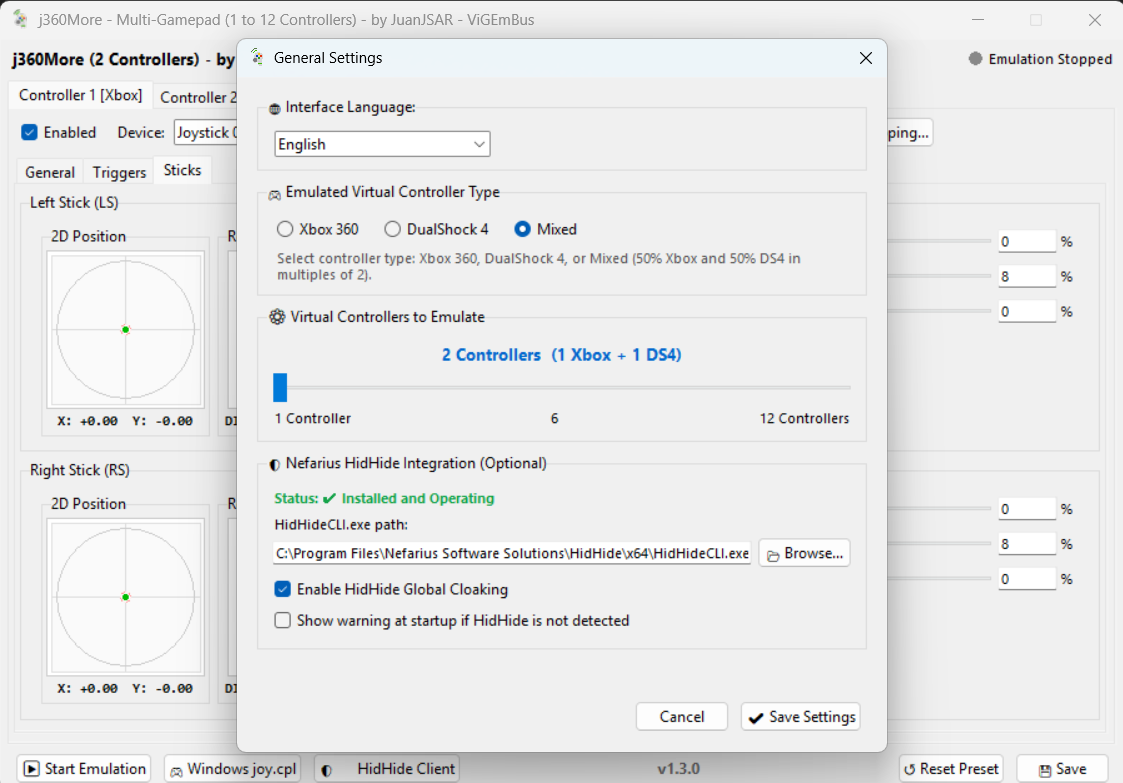
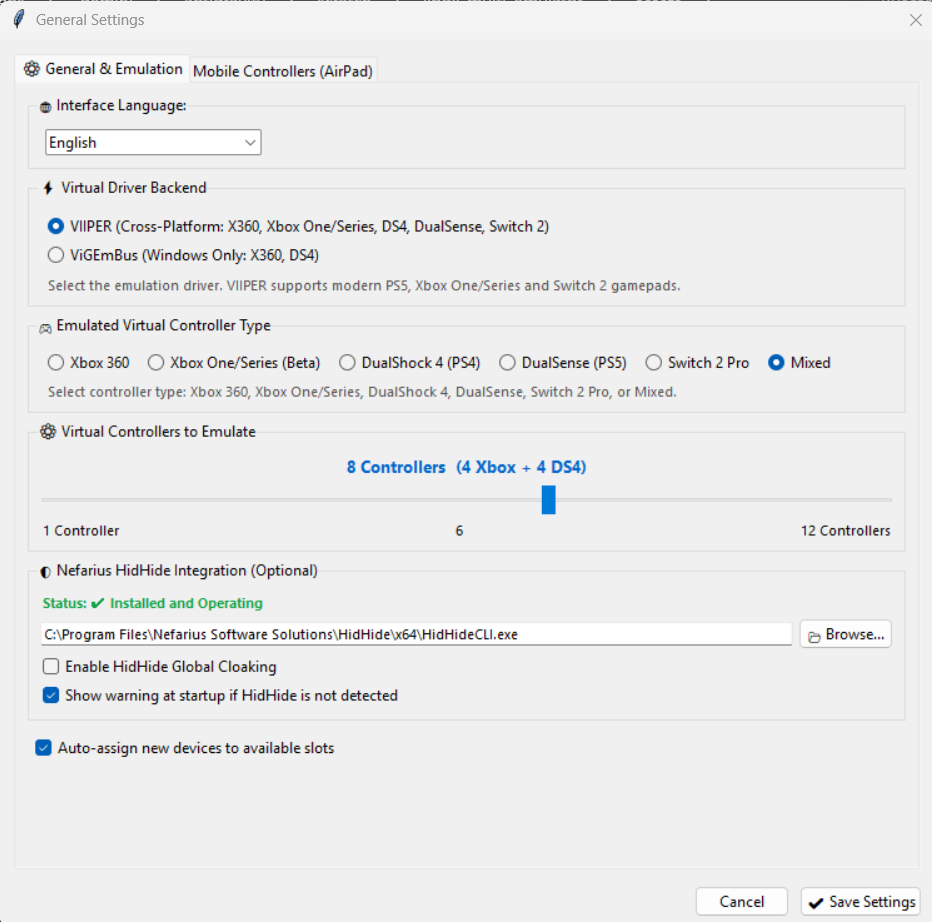
docs: add AirPad server, mobile touch gamepad, and layout customization screenshots to website and README

diff --git a/docs/script.js b/docs/script.js
@@ -43,6 +43,8 @@ const translations = {
     f7_desc: "Conecta 2 o más teclados físicos (USB, Bluetooth o laptop) y asígnalos a mandos virtuales de Xbox separados. Desarrollado sobre Windows Raw Input para garantizar cero interferencias cruzadas (Zero Cross-Talk).",
     f8_title: "Lanzador 'Juegos' (+4 Mandos)",
     f8_desc: "Pestaña dedicada para lanzar juegos multijugador con inyección automática de variables de entorno (FNA_GAMEPAD_NUM_GAMEPADS, etc.) escaladas en tiempo real para soportar hasta 12 mandos.",
+    f9_title: "AirPad: Mando Móvil Táctil",
+    f9_desc: "Transforma cualquier smartphone en un mando virtual con conexión instantánea por código QR, respuesta inmediata por WebSockets, modo HTTPS para mantener la pantalla siempre encendida y personalización total de botones y joysticks.",
     dual_tag: "Soporte Multi-Consola",
     dual_title: "Emulación de Xbox 360, Xbox One, PS4, PS5 y Switch 2 Pro",
     dual_subtitle: "j360More te permite elegir qué tipo de mando crear en tu sistema mediante los drivers VIIPER y ViGEmBus: Xbox 360, Xbox One (GIP), DualShock 4, DualSense (PS5), Nintendo Switch 2 Pro o modo Mixto simultáneo.",
@@ -143,6 +145,8 @@ const translations = {
     faq_a3: "¡Sí! Gracias a la integración nativa con Windows Raw Input, j360More detecta individualmente cada teclado físico conectado (USB, Bluetooth o integrado de laptop). Puedes conectar 2, 3 o más teclados y asignarlos a mandos separados (Mando 1, Mando 2, etc.) sin interferencia cruzada (Zero Cross-Talk): presionar teclas en el Teclado 1 jamás afectará los controles del Teclado 2.",
     faq_q4: "¿Cómo soluciono sticks con deriva (drift)?",
     faq_a4: "j360More incluye calibración analógica avanzada. En la pestaña de calibración puedes aumentar la 'Zona Muerta (Deadzone)' en un porcentaje para que los movimientos no deseados del stick sean completamente ignorados.",
+    faq_q5: "¿Cómo funciona AirPad para usar mi celular como mando?",
+    faq_a5: "Solo activa el servidor en la pestaña 'AirPad' de j360More y escanea el código QR desde la cámara de tu smartphone conectado a la misma red WiFi. No necesitas instalar ninguna app; el mando se ejecuta directamente en el navegador. Puedes activar el modo HTTPS para mantener la pantalla siempre encendida (Wake Lock) y personalizar libremente la ubicación de los botones y palancas.",
     cta_title: "¡Lleva el Multijugador en PC al Siguiente Nivel!",
     cta_desc: "Descarga la última versión de j360More y disfruta de partidas locales con amigos sin complicaciones.",
     cta_btn: "Descargar Última Versión en GitHub",
@@ -162,6 +166,15 @@ const translations = {
     s3_badge: "Configuración",
     s3_title: "Opciones de Emulación y Drivers",
     s3_desc: "Selección del motor (VIIPER / ViGEmBus), tipo de mando (Xbox 360, DualShock 4, DualSense, Switch 2 Pro o Mixto), cantidad de mandos e idioma.",
+    s4_badge: "AirPad Server",
+    s4_title: "Servidor AirPad & Conexión QR",
+    s4_desc: "Convierte cualquier smartphone o tableta en mando virtual. Incluye código QR dinámico, detección de IPs de red local, lista de mandos activos y selector HTTPS/SSL para activar el Wake Lock de pantalla.",
+    s5_badge: "AirPad Móvil",
+    s5_title: "Mando Virtual Táctil Completo",
+    s5_desc: "Mando táctil de ultra baja latencia con respuesta háptica (vibración), sticks analógicos duales, cruceta y gatillos directamente en el navegador de tu smartphone sin instalar aplicaciones.",
+    s6_badge: "Personalización",
+    s6_title: "Personalización Libre de Posiciones",
+    s6_desc: "Modo de edición en pantalla que permite arrastrar, reubicar y redimensionar cada botón y joystick libremente para adaptarse al tamaño de tu pantalla y a tu forma de agarrar el móvil.",
     screenshot_zoom: "Haz clic para ampliar en alta resolución",
     footer_desc: "Emulador de mandos virtuales para Windows y Linux (Beta). Diseñado y desarrollado por JuanJSAR para ofrecer la máxima velocidad, estabilidad y flexibilidad en entornos multijugador de 1 a 12 participantes.",
     footer_drivers_title: "Controladores",
@@ -209,6 +222,8 @@ const translations = {
     f7_desc: "Connect 2 or more physical keyboards (USB, wireless, or laptop) and map them to separate virtual Xbox controllers. Powered by Windows Raw Input with zero player cross-talk: typing on Keyboard 1 will never trigger actions on Keyboard 2.",
     f8_title: "Dedicated 'Games' Launcher (+4 Gamepads)",
     f8_desc: "Integrated launcher for local multiplayer titles with automatic environment variable scaling (FNA_GAMEPAD_NUM_GAMEPADS, etc.) dynamically matched to your active controller setup up to 12 gamepads.",
+    f9_title: "AirPad: Mobile Touch Gamepad",
+    f9_desc: "Transform any smartphone into a virtual gamepad with instant QR code pairing, low-latency WebSockets, HTTPS mode to keep the screen awake, and full on-screen button repositioning.",
     dual_tag: "Multi-Console Support",
     dual_title: "Xbox 360, Xbox One, PS4, PS5 & Switch 2 Pro Emulation",
     dual_subtitle: "j360More allows you to choose what type of controller to spawn on your system using VIIPER and ViGEmBus: Xbox 360, Xbox One (GIP), DualShock 4, DualSense (PS5), Nintendo Switch 2 Pro, or simultaneous Mixed mode.",
@@ -309,6 +324,8 @@ const translations = {
     faq_a3: "Yes! Thanks to low-level Windows Raw Input API integration, j360More individually tracks each connected physical keyboard (USB, Bluetooth, or internal laptop keyboard). You can connect 2, 3, or more keyboards and assign each to separate virtual slots (Controller 1, Controller 2, etc.) with zero cross-talk: pressing keys on Keyboard 1 will never affect Keyboard 2.",
     faq_q4: "How do I fix joystick drift?",
     faq_a4: "j360More features analog calibration. Open the calibration window and increase the 'Deadzone' percentage so unintended micro-movements are completely ignored.",
+    faq_q5: "How does AirPad work to use my mobile phone as a controller?",
+    faq_a5: "Just enable the server in j360More's 'AirPad' tab and scan the QR code using your phone's camera while connected to the same Wi-Fi network. No app installation needed; the controller runs directly in your browser. You can enable HTTPS mode to keep the screen awake (Screen Wake Lock) and freely customize on-screen button positions and sizes.",
     cta_title: "Elevate Your PC Local Multiplayer Gaming!",
     cta_desc: "Download the latest release of j360More and enjoy seamless local gaming with friends.",
     cta_btn: "Download Latest Release on GitHub",
@@ -328,6 +345,15 @@ const translations = {
     s3_badge: "Settings",
     s3_title: "Emulation Options & Drivers",
     s3_desc: "Selection of driver engine (VIIPER / ViGEmBus), controller type (Xbox 360, DualShock 4, DualSense, Switch 2 Pro, or Mixed), controller count, and language.",
+    s4_badge: "AirPad Server",
+    s4_title: "AirPad Server & QR Connection",
+    s4_desc: "Turn any smartphone or tablet into a virtual gamepad. Features dynamic QR code generation, local network IP discovery, active client list, and HTTPS/SSL mode to enable Screen Wake Lock.",
+    s5_badge: "AirPad Mobile",
+    s5_title: "Full Virtual Touch Gamepad",
+    s5_desc: "Ultra-low-latency touch controller with haptic feedback, dual analog sticks, D-pad, and triggers directly in your mobile browser without installing any apps.",
+    s6_badge: "Customization",
+    s6_title: "Free Touch Layout Customization",
+    s6_desc: "Interactive layout editor allowing you to freely drag, reposition, and resize every button, D-pad, and joystick to match your hand ergonomics and screen size.",
     screenshot_zoom: "Click to view full resolution",
     footer_desc: "Virtual controller emulator for Windows & Linux (Beta). Designed and developed by JuanJSAR to provide unmatched speed, stability, and versatility for 1 to 12 local players.",
     footer_drivers_title: "Drivers",

diff --git a/docs/index.html b/docs/index.html
@@ -290,6 +290,15 @@
           Pestaña dedicada para lanzar juegos multijugador con inyección automática de variables de entorno (FNA_GAMEPAD_NUM_GAMEPADS, etc.) escaladas en tiempo real para soportar hasta 12 mandos.
         </p>
       </div>
+
+      <!-- Feature 9 -->
+      <div class="feature-card">
+        <div class="feature-icon">📱</div>
+        <h3 data-i18n="f9_title">AirPad: Mando Móvil Táctil</h3>
+        <p data-i18n="f9_desc">
+          Transforma cualquier smartphone en un mando virtual con conexión instantánea por código QR, respuesta inmediata por WebSockets, modo HTTPS para mantener la pantalla siempre encendida y personalización total de botones y joysticks.
+        </p>
+      </div>
     </div>
   </section>
 
@@ -539,6 +548,99 @@
           <h3 class="screenshot-title" data-i18n="s3_title">Opciones de Emulación y Drivers</h3>
           <p class="screenshot-desc" data-i18n="s3_desc">
             Selección del motor (VIIPER / ViGEmBus), tipo de mando (Xbox 360, DualShock 4, DualSense, Switch 2 Pro o Mixto), cantidad de mandos e idioma.
+          </p>
+        </div>
+      </div>
+
+      <!-- Screenshot 5: AirPad Server & QR Code -->
+      <div class="screenshot-card">
+        <div class="window-mockup">
+          <div class="window-header">
+            <div class="window-dots">
+              <span class="window-dot red"></span>
+              <span class="window-dot yellow"></span>
+              <span class="window-dot green"></span>
+            </div>
+            <span class="window-title">j360More - Servidor AirPad (Gamepad Móvil)</span>
+          </div>
+          <div class="screenshot-img-wrapper">
+            <img src="assets/screenshot_airpad.png" alt="j360More - Servidor AirPad con Código QR y Soporte HTTPS SSL" class="screenshot-zoomable">
+            <div class="screenshot-overlay">
+              <svg width="14" height="14" viewBox="0 0 24 24" fill="none" stroke="currentColor" stroke-width="2">
+                <circle cx="11" cy="11" r="8"/>
+                <line x1="21" y1="21" x2="16.65" y2="16.65"/>
+              </svg>
+              <span data-i18n="screenshot_zoom">Haz clic para ampliar</span>
+            </div>
+          </div>
+        </div>
+        <div class="screenshot-info">
+          <span class="screenshot-badge" data-i18n="s4_badge">AirPad Server</span>
+          <h3 class="screenshot-title" data-i18n="s4_title">Servidor AirPad & Conexión QR</h3>
+          <p class="screenshot-desc" data-i18n="s4_desc">
+            Convierte cualquier smartphone o tableta en mando virtual. Incluye código QR dinámico, detección de IPs de red local, lista de mandos activos y selector HTTPS/SSL para activar el Wake Lock de pantalla.
+          </p>
+        </div>
+      </div>
+
+      <!-- Screenshot 6: AirPad Mobile Gamepad -->
+      <div class="screenshot-card">
+        <div class="window-mockup">
+          <div class="window-header">
+            <div class="window-dots">
+              <span class="window-dot red"></span>
+              <span class="window-dot yellow"></span>
+              <span class="window-dot green"></span>
+            </div>
+            <span class="window-title">AirPad Web - Mando Táctil Virtual (Android / iOS)</span>
+          </div>
+          <div class="screenshot-img-wrapper">
+            <img src="assets/screenshot_android1.png" alt="AirPad Móvil - Mando Táctil Virtual en Navegador" class="screenshot-zoomable">
+            <div class="screenshot-overlay">
+              <svg width="14" height="14" viewBox="0 0 24 24" fill="none" stroke="currentColor" stroke-width="2">
+                <circle cx="11" cy="11" r="8"/>
+                <line x1="21" y1="21" x2="16.65" y2="16.65"/>
+              </svg>
+              <span data-i18n="screenshot_zoom">Haz clic para ampliar</span>
+            </div>
+          </div>
+        </div>
+        <div class="screenshot-info">
+          <span class="screenshot-badge" data-i18n="s5_badge">AirPad Móvil</span>
+          <h3 class="screenshot-title" data-i18n="s5_title">Mando Virtual Táctil Completo</h3>
+          <p class="screenshot-desc" data-i18n="s5_desc">
+            Mando táctil de ultra baja latencia con respuesta háptica (vibración), sticks analógicos duales, cruceta y gatillos directamente en el navegador de tu smartphone sin instalar aplicaciones.
+          </p>
+        </div>
+      </div>
+
+      <!-- Screenshot 7: AirPad Layout Customization -->
+      <div class="screenshot-card">
+        <div class="window-mockup">
+          <div class="window-header">
+            <div class="window-dots">
+              <span class="window-dot red"></span>
+              <span class="window-dot yellow"></span>
+              <span class="window-dot green"></span>
+            </div>
+            <span class="window-title">AirPad Web - Personalización Libre de Posiciones</span>
+          </div>
+          <div class="screenshot-img-wrapper">
+            <img src="assets/screenshot_android2.png" alt="AirPad Móvil - Personalización Libre de Posiciones y Tamaño" class="screenshot-zoomable">
+            <div class="screenshot-overlay">
+              <svg width="14" height="14" viewBox="0 0 24 24" fill="none" stroke="currentColor" stroke-width="2">
+                <circle cx="11" cy="11" r="8"/>
+                <line x1="21" y1="21" x2="16.65" y2="16.65"/>
+              </svg>
+              <span data-i18n="screenshot_zoom">Haz clic para ampliar</span>
+            </div>
+          </div>
+        </div>
+        <div class="screenshot-info">
+          <span class="screenshot-badge" data-i18n="s6_badge">Personalización</span>
+          <h3 class="screenshot-title" data-i18n="s6_title">Personalización Libre de Posiciones</h3>
+          <p class="screenshot-desc" data-i18n="s6_desc">
+            Modo de edición en pantalla que permite arrastrar, reubicar y redimensionar cada botón y joystick libremente para adaptarse al tamaño de tu pantalla y a tu forma de agarrar el móvil.
           </p>
         </div>
       </div>
@@ -818,6 +920,13 @@
         <div class="faq-question" data-i18n="faq_q4">¿Cómo soluciono sticks con deriva (drift)?</div>
         <div class="faq-answer" data-i18n="faq_a4">
           j360More incluye calibración analógica avanzada. En la pestaña de calibración puedes aumentar la "Zona Muerta (Deadzone)" en un porcentaje para que los movimientos no deseados del stick sean completamente ignorados.
+        </div>
+      </div>
+
+      <div class="faq-item">
+        <div class="faq-question" data-i18n="faq_q5">¿Cómo funciona AirPad para usar mi celular como mando?</div>
+        <div class="faq-answer" data-i18n="faq_a5">
+          Solo activa el servidor en la pestaña "AirPad" de j360More y escanea el código QR desde la cámara de tu smartphone conectado a la misma red WiFi. No necesitas instalar ninguna app; el mando se ejecuta directamente en el navegador. Puedes activar el modo HTTPS para mantener la pantalla siempre encendida (Wake Lock) y personalizar libremente la ubicación de los botones y palancas.
         </div>
       </div>
     </div>

diff --git a/README_es.md b/README_es.md
@@ -22,6 +22,8 @@ Permite asociar periféricos físicos reales (mandos USB o Bluetooth DirectInput
 | [![Mapeo Xbox 360](assets/screenshot_main.png)](assets/screenshot_main.png) | [![Mapeo DualShock 4](assets/screenshot_main2.png)](assets/screenshot_main2.png) |
 | **Calibración de Sticks Analógicos** | **Configuración y Selección de Drivers** |
 | [![Calibración de Sticks](assets/screenshot_sticks.png)](assets/screenshot_sticks.png) | [![Configuración](assets/screenshot_settings.png)](assets/screenshot_settings.png) |
+| **Servidor AirPad (QR y HTTPS/SSL)** | **Mando Táctil Móvil y Personalización de Posiciones** |
+| [![Servidor AirPad](assets/screenshot_airpad.png)](assets/screenshot_airpad.png) | [![Mando Táctil AirPad](assets/screenshot_android1.png)](assets/screenshot_android1.png)<br>[![Personalización de Posiciones](assets/screenshot_android2.png)](assets/screenshot_android2.png) |
 
 ---
 

diff --git a/README.md b/README.md
@@ -22,6 +22,8 @@ Map real physical hardware (DirectInput/XInput gamepads via USB or Bluetooth, ge
 | [![Xbox 360 Mapping](assets/screenshot_main.png)](assets/screenshot_main.png) | [![DualShock 4 Mapping](assets/screenshot_main2.png)](assets/screenshot_main2.png) |
 | **Analog Sticks Calibration** | **Settings & Driver Selection** |
 | [![Analog Sticks](assets/screenshot_sticks.png)](assets/screenshot_sticks.png) | [![Settings](assets/screenshot_settings.png)](assets/screenshot_settings.png) |
+| **AirPad Server (QR & HTTPS/SSL)** | **AirPad Mobile Touch & Layout Customization** |
+| [![AirPad Server](assets/screenshot_airpad.png)](assets/screenshot_airpad.png) | [![AirPad Touch](assets/screenshot_android1.png)](assets/screenshot_android1.png)<br>[![AirPad Custom Positions](assets/screenshot_android2.png)](assets/screenshot_android2.png) |
 
 ---
 
